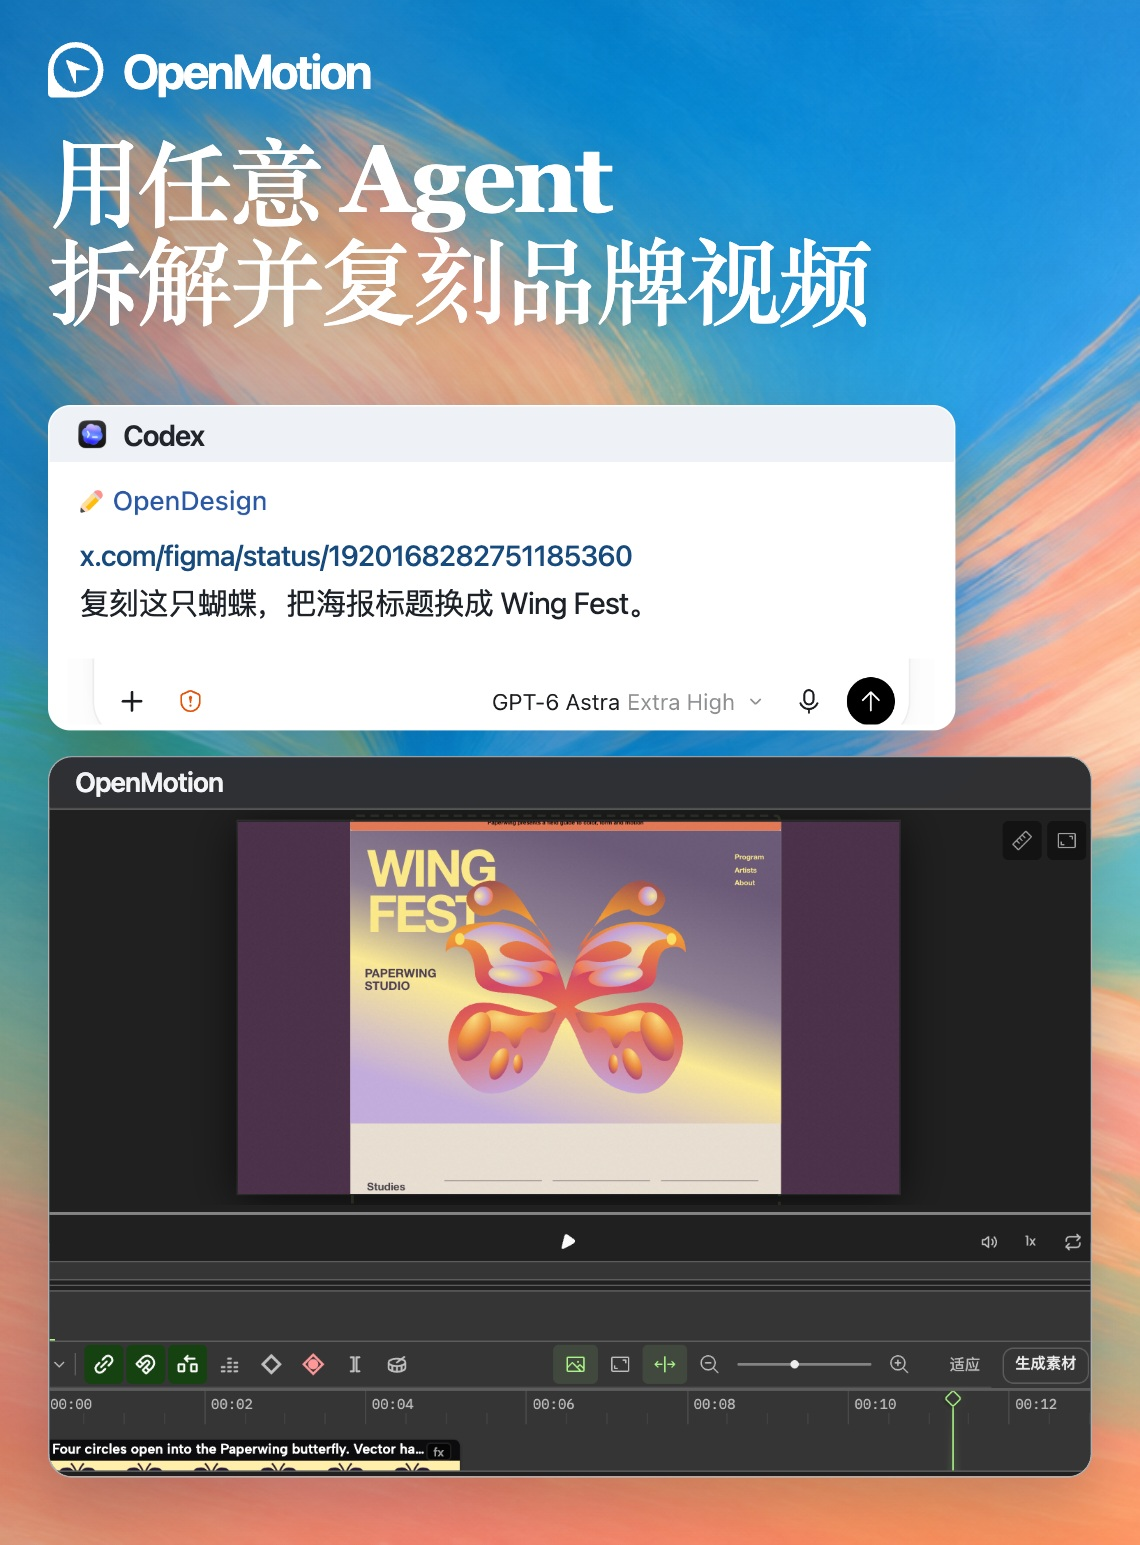
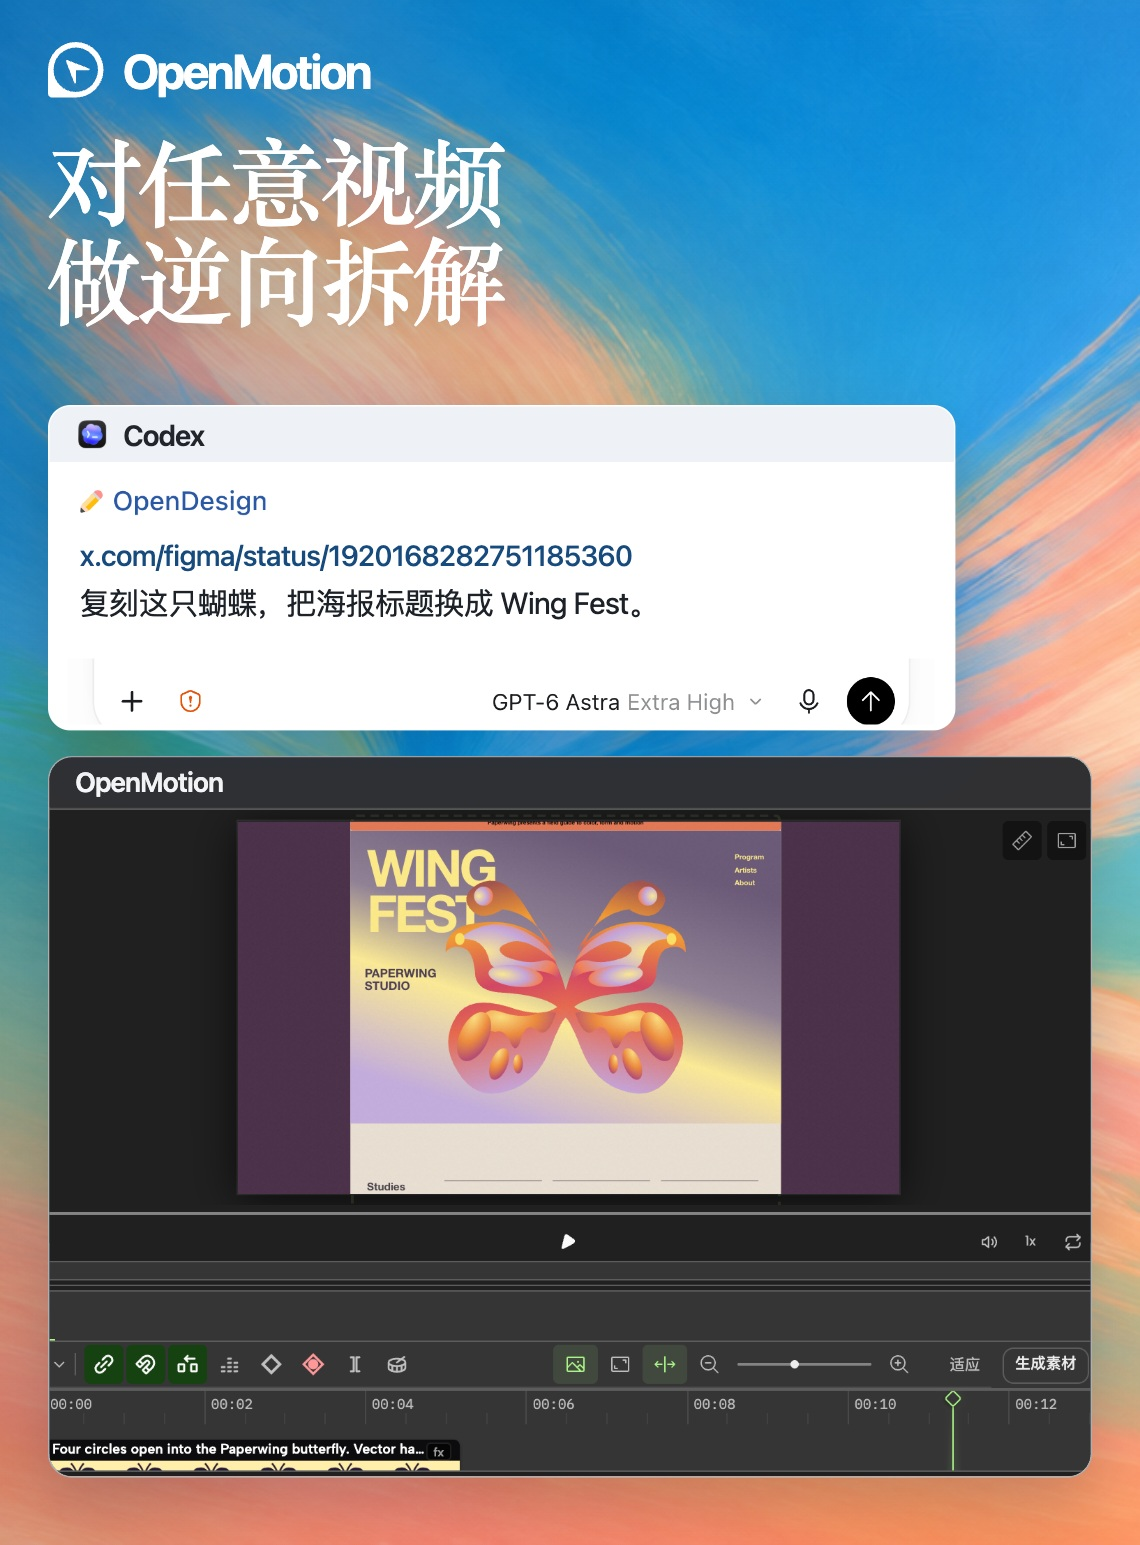
Explain the full-stack agentic video workflow and its architecture

Changed region(s): [[0.0307, 0.0932, 0.7675, 0.2175]]

diff --git a/scripts/distribution.ts b/scripts/distribution.ts
@@ -18,6 +18,7 @@ export const distributionDocuments = [
   'docs/examples/product-launch.MOTION.md', 'docs/examples/product-launch.MOTION.zh-CN.md',
   'docs/readme/ASSETS.md', 'docs/readme/opendesign-symbol.svg', 'docs/readme/hero.svg', 'docs/readme/hero.zh-CN.svg',
   'docs/readme/cover.jpg', 'docs/readme/cover.zh-CN.jpg',
+  'docs/readme/system-architecture.svg', 'docs/readme/system-architecture.zh-CN.svg',
   'docs/readme/cover.mobile.jpg', 'docs/readme/cover.mobile.zh-CN.jpg',
   'docs/readme/agents/codex-badge.svg', 'docs/readme/agents/claude-code-badge.svg',
   'docs/readme/agents/deepseek-harness-badge.svg', 'docs/readme/agents/workbuddy-badge.svg',

diff --git a/README.md b/README.md
@@ -1,10 +1,15 @@
-<h1 align="center"><a href="docs/readme/studio-tour.mp4"><picture><source media="(max-width: 640px)" srcset="docs/readme/cover.mobile.jpg" /><img src="docs/readme/cover.jpg" width="100%" alt="OpenMotion — Reverse-engineer brand videos in any agent" /></picture></a></h1>
+<h1 align="center"><a href="docs/readme/studio-tour.mp4"><picture><source media="(max-width: 640px)" srcset="docs/readme/cover.mobile.jpg" /><img src="docs/readme/cover.jpg" width="100%" alt="OpenMotion — Reverse-engineering for any video" /></picture></a></h1>
 
-<p align="center">Upload any brand video or paste a social video link to recreate its motion with your own assets.</p>
+<p align="center">Remix any viral video by your agent. Upload a clip or paste a social video link, then bring in your own brand assets.</p>
 
 <p align="center"><strong><a href="#agent-setup">Quickstart</a></strong> · <a href="docs/README.zh-CN.md">简体中文</a></p>
 
 ## Make a reference your own
+
+- **The first full-stack agentic video generator.** Our goal is to put generation, editing, and rendering in one open-source workflow. Code your scenes in HTML, edit the timing in Studio, then render the same project to MP4.
+- **Use OpenMotion directly in your local agent, with BYOK at every layer.** Keep your agent’s language model and connect your own provider keys for image, video, and music generation.
+- **First open-source release of `MOTION.md` files for 100+ brands.** That’s the scope of our planned collection. We designed [Motion MD](docs/motion-md.md) to record shot order, timing, transitions, and the assets you can replace. Read the [Firecrawl brief](examples/reference-reveal/MOTION.md) in the public preview.
+- **Multimodal: images · video · music.** Generate or import the assets you need, line them up with the cuts and beats on one timeline, then export the finished film. [See model options](#bring-your-own-agent-and-keys-byok)
 
 <p align="center"><a href="docs/readme/studio-tour.mp4"><picture>
   <source media="(prefers-reduced-motion: reduce)" srcset="docs/readme/codex-comparison.jpg" />
@@ -35,6 +40,14 @@ https://x.com/tim_cook/status/1896589954517701057
 Keep the word reveals and fold on the same beats. Replace AIR with CUT.
 Open the editable five-second project in Studio and export an MP4.
 ```
+
+### Presenter-led explainers
+
+In [Kevin Stratvert’s tool demo](https://www.youtube.com/shorts/1fA5j5_5TRY), the presenter cuts from talking to the camera to showing the software. Give your agent your own recording and screen capture so viewers see the feature just as you name it.
+
+> Keep my voice. When I say “export,” cut to my screen recording, circle the Export button, then cut back to me. Keep the highlighted words editable as captions.
+
+The linked short is the reference. Your recording, captions, and screen inserts go into your own project.
 
 ## Made with OpenMotion
 
@@ -106,19 +119,30 @@ Then try one edit: **“Hold the closing title two seconds longer. Export anothe
 
 ![Product Promo open in Studio, with its preview and editable timeline.](docs/readme/editor.jpg)
 
-## Bring your own project
+## System architecture
 
-You can start with assets already in your project. For generated images, video or audio, Studio’s model settings let you configure your own Atlas Cloud or fal.ai key and choose a model for each media type. [Model settings](docs/model-gateway.md)
+Your local agent creates a project through MCP and writes the scenes in HTML, CSS, and JavaScript. To hold a title half a second longer, ask the agent to change the code or drag the clip edge in Studio. The renderer takes a snapshot of that same project and exports the MP4.
 
-| What you have | What to ask your agent for | What you can change next |
+[![OpenMotion architecture: the local agent calls project tools, the optional model gateway supplies media, and Studio and the renderer share the editable project.](docs/readme/system-architecture.svg)](docs/readme/system-architecture.svg)
+
+[Explore the butterfly composition](examples/wing-construction/index.html) · [Product architecture](docs/product/architecture.md) · [Rendering pipeline](docs/hyperframes.md)
+
+### Bring your own agent and keys (BYOK)
+
+Choose your language model in your local agent and use its existing login or API key. To generate media, add your Atlas Cloud or fal.ai key in **Studio → Model settings** and pick a model for each medium. You can also import your own files and edit and render locally without a model key.
+
+| Medium | Built-in model options | Try it in a cut |
 | --- | --- | --- |
-| A reference clip and brand assets | “Keep the cut from the headline to the UI. Use our screenshot and type.” | Compare the two cuts and adjust where the reveal lands. [Recreate a reference](skills/motion-recreate/SKILL.md) |
-| A template you already like | “Use the Product Promo timing. Replace the opening copy and the end card.” | Keep a fresh copy of the template for the next campaign. [Adapt a template](skills/motion-template-to-video/SKILL.md) |
-| Release notes and a folder of screenshots | “Show the problem, demo the new feature, then hold on the release date.” | Review the shot sequence with your agent and refine the cut in Studio. [Direct an original film](skills/motion-director/SKILL.md) |
+| Images | Codex Image, Nano Banana 2, FLUX Schnell | Redraw the opening artwork in your brand palette. |
+| Video | Seedance 2.0, Wan 2.2 | Generate a cutaway to lead into your screen recording. |
+| Music | Suno v4 | Score the moment your product appears. |
+| Speech (TTS) | Kokoro | Narrate a new script over the same cut. |
+
+Codex Image uses your local Codex login. Cloud model access and charges depend on your provider account. Add the result you choose to the timeline to keep editing. [Model settings](docs/model-gateway.md) · [Model catalog source](gateway/catalog.ts)
 
 ## Motion MD
 
-A useful motion brief names both the creative decision and what a teammate may change. Here’s the direction behind the five-second remix:
+The opening five seconds of the Firecrawl reference have three distinct beats. The brief pairs each movement with the brand detail you can replace.
 
 | Time | Keep | Swap for your brand |
 | --- | --- | --- |
@@ -126,7 +150,7 @@ A useful motion brief names both the creative decision and what a teammate may c
 | 1.5–4s | Let the central mark settle while the outer tiles keep turning. | Your symbol and the inputs or features that belong around it. |
 | 4–5s | Follow the same mark into the closing handoff. | The input your customer provides and the result they get. |
 
-The first planned collection covers 100+ brand-film MOTION.md breakdowns. Watch the [five-second Firecrawl comparison](examples/reference-reveal/comparison.mp4) alongside the published brief below.
+[Play the original and the remake together](examples/reference-reveal/comparison.mp4) to check the timing against the three beats above.
 
 Give your agent the Markdown brief along with the project. The brief guides the edit. The HTML, CSS, JavaScript and media supply the animation. [Motion MD v0.1 proposal](docs/motion-md.md) · [Working brief and both exports](examples/reference-reveal/MOTION.md)
 

diff --git a/docs/README.zh-CN.md b/docs/README.zh-CN.md
@@ -1,10 +1,15 @@
-<h1 align="center"><a href="readme/studio-tour.zh-CN.mp4"><picture><source media="(max-width: 640px)" srcset="readme/cover.mobile.zh-CN.jpg" /><img src="readme/cover.zh-CN.jpg" width="100%" alt="OpenMotion · 用任意 Agent 拆解并复刻品牌视频" /></picture></a></h1>
+<h1 align="center"><a href="readme/studio-tour.zh-CN.mp4"><picture><source media="(max-width: 640px)" srcset="readme/cover.mobile.zh-CN.jpg" /><img src="readme/cover.zh-CN.jpg" width="100%" alt="OpenMotion · 对任意视频做逆向拆解" /></picture></a></h1>
 
-<p align="center">上传任意品牌视频，或粘贴社媒视频链接，用自己的品牌素材复刻原片的动效。</p>
+<p align="center">用你的 Agent 复刻任意热门视频。上传视频或粘贴社媒链接，换成自己的品牌素材。</p>
 
 <p align="center"><strong><a href="#接入你的-agent">开始使用</a></strong> · <a href="../README.md">English</a></p>
 
 ## 复用参考片的拍法
+
+- **首个全栈 Agentic 视频生成器。** 我们的目标是把生成、编辑和渲染放进同一套工作流：用 HTML 编写镜头，在 Studio 里改画面和节奏，从这份工程直接渲染出 MP4。
+- **在本地 Agent 里直接用，每一层都支持 BYOK。** 从 Agent 的语言模型到生成图片、视频和音乐的模型，都可以接入自己的服务，使用自己的 API Key。
+- **首次开源 100+ 个品牌的 `MOTION.md`** 是首发合集的目标。我们定义了 [Motion MD](motion-md.zh-CN.md)，用 Markdown 记录分镜、节奏、转场和可替换的品牌素材。当前公开预览可读 [Firecrawl 五秒样例](../examples/reference-reveal/MOTION.zh-CN.md)。
+- **多模态：图片 · 视频 · 音乐。** 生成或导入需要的素材，放到同一条时间轴上对齐镜头和节拍，再一起导出。[查看可选模型](#自带-agent-和模型密钥byok)
 
 <p align="center"><a href="readme/studio-tour.zh-CN.mp4"><picture>
   <source media="(prefers-reduced-motion: reduce)" srcset="readme/codex-comparison.zh-CN.jpg" />
@@ -35,6 +40,14 @@ https://x.com/tim_cook/status/1896589954517701057
 沿用文字出现和折叠的节奏，把 AIR 换成 CUT。
 在 Studio 中打开可编辑的 5 秒工程，导出 MP4。
 ```
+
+### 真人口播加动效
+
+[Kevin Stratvert 的工具演示](https://www.youtube.com/shorts/1fA5j5_5TRY)从真人出镜切到屏幕操作。做自己的版本时，可以把你的口播和录屏一起交给 Agent，让观众在听到功能名时就看到对应的操作。
+
+> 保留我的原声。我说到「导出」时切到录屏，圈出导出按钮，再切回人像。把关键词做成可编辑的字幕。
+
+这是参考片，你的录像、字幕和屏幕特写会保存在自己的工程里。
 
 ## 用 OpenMotion 做出的三支片子
 
@@ -106,19 +119,30 @@ cd OpenMotion && bash scripts/install-motion.command
 
 ![在 Studio 中打开的 Product Promo 示例，可见视频预览与可编辑时间轴。](readme/editor.jpg)
 
-## 用自己的素材开工
+## 系统架构
 
-项目里的 Logo 和截图可以直接用。需要另外生成图像、视频或声音素材时，可在 Studio「模型设置」中配置自己的 Atlas Cloud 或 fal.ai API Key，按媒体类型选择模型。[模型设置说明](model-gateway.md)
+Agent 通过本地 MCP 工具创建工程，用 HTML、CSS 和 JavaScript 编排镜头。想让标题多停半秒，可以让 Agent 改代码，也可以在 Studio 里拖长片段；渲染器读取这份工程的快照并导出 MP4。
 
-| 你手头有什么 | 可以怎样告诉 Agent | 第一版出来后怎么改 |
+[![OpenMotion 系统架构：本地 Agent 调用工程工具，可选模型网关提供素材，Studio 和渲染器共用同一份工程。](readme/system-architecture.zh-CN.svg)](readme/system-architecture.zh-CN.svg)
+
+[查看原生动画工程](../examples/wing-construction/index.html) · [产品架构](product/architecture.md) · [渲染流程](hyperframes.md)
+
+### 自带 Agent 和模型密钥（BYOK）
+
+在自己的 Agent 里选择语言模型，沿用它的登录账号或 API Key。需要生成新素材时，在 Studio 的**模型设置**里填入自己的 Atlas Cloud 或 fal.ai Key，再按素材类型选模型。已有素材可以直接导入，本地编辑和渲染无需模型密钥。
+
+| 素材 | 内置模型示例 | 可以怎样用 |
 | --- | --- | --- |
-| 一支参考片和品牌素材 | “保留从标题切到界面的那一拍，用我们的截图和字体。” | 把两支片并排看，微调产品亮相的时机。[复刻参考片](../skills/motion-recreate/SKILL.md) |
-| 一份喜欢的模板 | “用 Product Promo 的节奏，换掉开场文案和片尾。” | 在模板副本里改，下一次活动还可以从原版开始。[套用模板](../skills/motion-template-to-video/SKILL.md) |
-| 发布说明和一组截图 | “先说用户遇到的问题，再演示新功能，最后停在上线日期。” | 和 Agent 一起定镜头顺序，到 Studio 调整每个镜头的长度。[从创意做原片](../skills/motion-director/SKILL.md) |
+| 图片 | Codex Image、Nano Banana 2、FLUX Schnell | 用品牌配色重做片头主视觉。 |
+| 视频 | Seedance 2.0、Wan 2.2 | 生成一段过场，接到产品录屏前。 |
+| 音乐 | Suno v4 | 为产品亮相生成一段配乐。 |
+| 语音（TTS） | Kokoro | 为新文案配音，保留原来的剪辑节奏。 |
+
+Codex Image 使用本地 Codex 登录。云模型的使用权限和费用取决于你自己的供应商账号。选中生成结果后，把它加入时间轴即可继续编辑。[模型设置](model-gateway.md) · [模型目录源码](../gateway/catalog.ts)
 
 ## Motion MD
 
-一份可复用的动效说明，要写清楚镜头为什么这样拍，也要告诉接手的人可以改哪里。上面这支 5 秒片用到了三个决定。
+Firecrawl 这支参考片的前五秒有三次变化。下面这份说明把镜头的节奏和可以替换的品牌内容写在一起。
 
 | 时段 | 保留的拍法 | 做自己品牌的视频时可以换什么 |
 | --- | --- | --- |
@@ -126,7 +150,7 @@ cd OpenMotion && bash scripts/install-motion.command
 | 1.5–4 秒 | 中央标志落定，外围卡片继续旋转。 | 你的品牌标志，以及围绕它的素材、功能或产品。 |
 | 4–5 秒 | 让同一个标志进入最后的交接镜头。 | 客户提供什么输入，最后得到什么结果。 |
 
-首批品牌宣传片 MOTION.md 合集计划收录 100 多份拆解。现在可以先看 [Firecrawl 原片与复刻的 5 秒对照](../examples/reference-reveal/comparison.mp4)，再读下面的完整样例。
+[同步播放这五秒的原片与复刻](../examples/reference-reveal/comparison.mp4)，可以直接对照表里的三个时间点。
 
 把 Markdown 文件和工程一起交给 Agent。它可以按这份说明改稿，实际动画保存在 HTML、CSS、JavaScript 和素材文件里。[Motion MD v0.1 草案](motion-md.zh-CN.md) · [本片的说明与两次导出](../examples/reference-reveal/MOTION.zh-CN.md)
 

diff --git a/README.zh-CN.md b/README.zh-CN.md
@@ -1,10 +1,15 @@
-<h1 align="center"><a href="docs/readme/studio-tour.zh-CN.mp4"><picture><source media="(max-width: 640px)" srcset="docs/readme/cover.mobile.zh-CN.jpg" /><img src="docs/readme/cover.zh-CN.jpg" width="100%" alt="OpenMotion · 用任意 Agent 拆解并复刻品牌视频" /></picture></a></h1>
+<h1 align="center"><a href="docs/readme/studio-tour.zh-CN.mp4"><picture><source media="(max-width: 640px)" srcset="docs/readme/cover.mobile.zh-CN.jpg" /><img src="docs/readme/cover.zh-CN.jpg" width="100%" alt="OpenMotion · 对任意视频做逆向拆解" /></picture></a></h1>
 
-<p align="center">上传任意品牌视频，或粘贴社媒视频链接，用自己的品牌素材复刻原片的动效。</p>
+<p align="center">用你的 Agent 复刻任意热门视频。上传视频或粘贴社媒链接，换成自己的品牌素材。</p>
 
 <p align="center"><strong><a href="docs/README.zh-CN.md#接入你的-agent">开始使用</a></strong> · <a href="docs/README.zh-CN.md">完整中文版</a> · <a href="README.md">English</a></p>
 
 ## 复刻案例
+
+- **首个全栈 Agentic 视频生成器。** 我们的目标是把生成、编辑和渲染放进同一套工作流：用 HTML 编写镜头，在 Studio 里改画面和节奏，从这份工程直接渲染出 MP4。
+- **在本地 Agent 里直接用，每一层都支持 BYOK。** 从 Agent 的语言模型到生成图片、视频和音乐的模型，都可以接入自己的服务，使用自己的 API Key。
+- **首次开源 100+ 个品牌的 `MOTION.md`** 是首发合集的目标。我们定义了 [Motion MD](docs/motion-md.zh-CN.md)，用 Markdown 记录分镜、节奏、转场和可替换的品牌素材。当前公开预览可读 [Firecrawl 五秒样例](examples/reference-reveal/MOTION.zh-CN.md)。
+- **多模态：图片 · 视频 · 音乐。** 生成或导入需要的素材，放到同一条时间轴上对齐镜头和节拍，再一起导出。[查看可选模型](docs/README.zh-CN.md#自带-agent-和模型密钥byok)
 
 <p align="center"><a href="docs/readme/studio-tour.zh-CN.mp4"><picture>
   <source media="(prefers-reduced-motion: reduce)" srcset="docs/readme/codex-comparison.zh-CN.jpg" />
@@ -14,6 +19,8 @@
 从[Figma Draw 原片](https://x.com/figma/status/1920168282751185360)到 Wing Fest 蝴蝶海报。点开演示，看 Codex 如何复刻这段动效。
 
 [查看七个品牌的 5 秒对照](docs/README.zh-CN.md#复用参考片的拍法) · [浏览 100+ 个一键复刻参考](docs/README.zh-CN.md#motion-资源库与主题合集)
+
+也可以从自己的口播录像开始，把字幕、关键词和录屏对齐到说话的节奏。[查看口播示例](docs/README.zh-CN.md#真人口播加动效) · [查看系统架构图](docs/README.zh-CN.md#系统架构)
 
 ## 项目与社区
 

diff --git a/docs/readme/ASSETS.md b/docs/readme/ASSETS.md
@@ -8,6 +8,7 @@
 | Brand comparisons | Each left pane uses the linked excerpt from the original X post. Each right pane uses independent animation and editable artwork. Six studies isolate the visual action in silence. The OpenAI, Figma and Firecrawl remakes have original scores. Reference footage and trademarks belong to their respective owners. [Source posts, timestamps and projects](../../examples/README.md) |
[1 lines of base64/hex data omitted]
 | Creative workflow · [English](hero.svg) / [中文](hero.zh-CN.svg) | The “Great motion. Made yours.” cover pairs the original OpenDesign symbol with three illustrated cards: a reference style, a Motion MD brief and an editable brand video. |
+| System architecture · [English](system-architecture.svg) / [中文](system-architecture.zh-CN.svg) | Original vector diagram of the [local runtime, editable project and renderer](../product/architecture.md) and the optional [model gateway](../model-gateway.md). |
 | Motion MD · [English](motion-md.svg) / [中文](motion-md.zh-CN.svg) | Editable concept diagram showing how a creator and Agent use the v0.1 draft. It does not depict an automatic importer. |
 | [Editor](editor.jpg) and [workspace](workspace.jpg) | Actual Studio 0.6.1, commit `7aee372`, with an isolated demo workspace and the bundled Product Promo project. The application shell's original labels are preserved. |
 | Template frames | Product Promo, NYT Graph and Decision Tree use the posters already distributed with their source projects. See the [upstream notice](../../template-library/NOTICE.md). |
